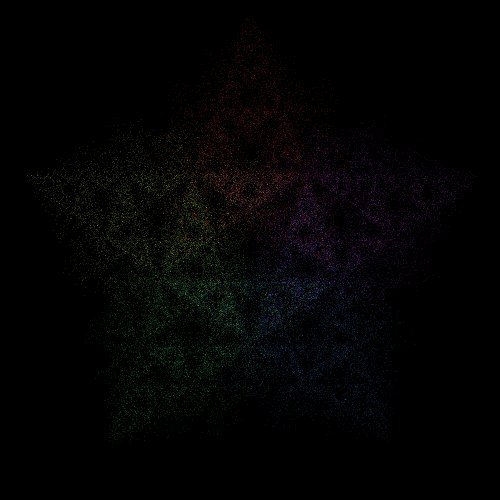
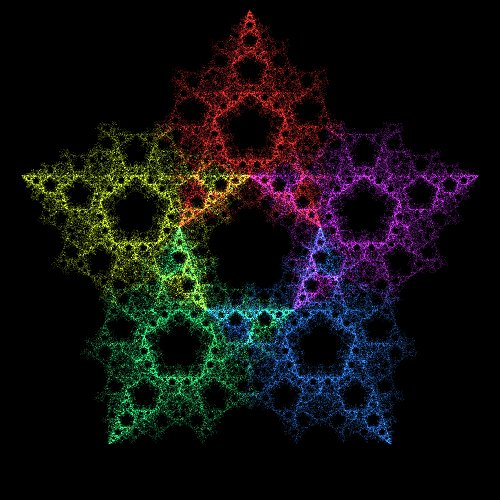
added version of the chaos game with a modified color scheme that looks much better

Changed region(s): [[0.03, 0.0, 0.96, 0.9]]

diff --git a/chaos_game_rgb.py b/chaos_game_rgb.py
@@ -7,23 +7,23 @@ from pygame.locals import *
 idx = [0, 0, 0]
 
 
-def mark_pixel(surface, pos, pcol):
+def mark_pixel(surface, pos, plane):
     col = surface.get_at(pos)
-    surface.set_at(pos, (min(col[0] + pcol[0]/10, 255),
-                         min(col[1] + pcol[1]/10, 255),
-                         min(col[2] + pcol[2]/10, 255)))
+    v = min(col[plane] + 4, 255)
+    surface.set_at(pos, (v if plane == 0 else col[0],
+                         v if plane == 1 else col[1],
+                         v if plane == 2 else col[2]))
 
 
 def random_point_index(p):
     global idx
     idx[2] = idx[1]
     idx[1] = idx[0]
-    dst1 = abs(idx[1] - idx[2])
 
     while True:
         idx[0] = random.randint(0, len(p) - 1)
         dst = abs(idx[0] - idx[1])
-        if dst1 == 0 and (dst == 1 or dst == len(p) - 1):
+        if dst == 0:
             continue
         else:
             break
@@ -42,8 +42,6 @@ def init_polygon(width, height, n):
         p.append(((width/2 + r*math.sin(angle),
                    height/2 + r*math.cos(angle)),
                   (int(color[0]*255), int(color[1]*255), int(color[2]*255))))
-
-
     return p
 
 
@@ -53,19 +51,22 @@ def main(width, height, n, r):
     pygame.display.set_caption('Das Chaos Spiel')
 
     p = init_polygon(width, height, n)
+    x = [random.randint(0, width), random.randint(0, width), random.randint(0, width)]
+    y = [random.randint(0, height), random.randint(0, height), random.randint(0, height)]
+    plane_randomness = [0.02, 0.04, 0.08]
 
-    x, y = (400, 300)
-    for step in range(0, width*height*3):
-        point_idx = random_point_index(p)
+    step = 0
+    while True:
+        step = step + 1
+        i = random_point_index(p)
+        for plane_idx in (range(0,3)):
+            rr = random.random() * plane_randomness[plane_idx]
+            x[plane_idx] += (p[i][0][0] - x[plane_idx]) * (r + rr)
+            y[plane_idx] += (p[i][0][1] - y[plane_idx]) * (r + rr)
 
-        pos = p[point_idx][0]
-        color = p[point_idx][1]
-        x += (pos[0] - x) * r
-        y += (pos[1] - y) * r
+            mark_pixel(surface, (int(x[plane_idx]), int(y[plane_idx])), plane_idx)
 
-        mark_pixel(surface, (int(x), int(y)), color)
-
-        if step % 1000 == 0:
+        if step % 5000 == 0:
             pygame.display.update()
 
         for event in pygame.event.get():
@@ -74,9 +75,6 @@ def main(width, height, n, r):
                 pygame.quit()
                 return
 
-    pygame.image.save(surface, 'chaosspiel.jpg')
-    pygame.quit()
-
 
 if __name__ == "__main__":
-    main(500, 500, 5,  0.5)
+    n = 5; main(500, 500, n, 0.5)

diff --git a/chaos_game_anim.py b/chaos_game_anim.py
@@ -2,6 +2,7 @@ import pygame
 import random
 import math
 import colorsys
+import numpy as np
 from pygame.locals import *
 
 idx = [0, 0, 0]
@@ -42,12 +43,10 @@ def init_polygon(width, height, n):
         p.append(((width/2 + r*math.sin(angle),
                    height/2 + r*math.cos(angle)),
                   (int(color[0]*255), int(color[1]*255), int(color[2]*255))))
-
-
     return p
 
 
-def main(width, height, n, r):
+def main(width, height, n, r, ct):
     pygame.init()
     surface = pygame.display.set_mode((width, height))
     pygame.display.set_caption('Das Chaos Spiel')
@@ -55,28 +54,26 @@ def main(width, height, n, r):
     p = init_polygon(width, height, n)
 
     x, y = (400, 300)
-    for step in range(0, width*height*3):
-        point_idx = random_point_index(p)
+    for i in range(0, width*height*3):
+        i = random_point_index(p)
+        x += (p[i][0][0] - x) * r
+        y += (p[i][0][1] - y) * r
 
-        pos = p[point_idx][0]
-        color = p[point_idx][1]
-        x += (pos[0] - x) * r
-        y += (pos[1] - y) * r
-
-        mark_pixel(surface, (int(x), int(y)), color)
-
-        if step % 1000 == 0:
+        mark_pixel(surface, (int(x), int(y)), p[i][1])
+        if i % 1000 == 0:
             pygame.display.update()
 
         for event in pygame.event.get():
             if event.type == QUIT:
-                pygame.image.save(surface, 'chaosspiel.jpg')
                 pygame.quit()
                 return
 
-    pygame.image.save(surface, 'chaosspiel.jpg')
+    pygame.image.save(surface, 'frame_{:03d}.jpg'.format(ct))
     pygame.quit()
 
 
 if __name__ == "__main__":
-    main(500, 500, 5,  0.5)
+    ct = 0
+    for r in np.arange(0.1, 0.9, 0.01):
+        ct = ct + 1
+        main(500, 500, 5, r, ct)

diff --git a/game_of_life.py b/game_of_life.py
@@ -62,4 +62,4 @@ def main(dimx, dimy, cellsize):
 
 
 if __name__ == "__main__":
-    main(120, 90, 8)
+    main(100, 70, 8)
